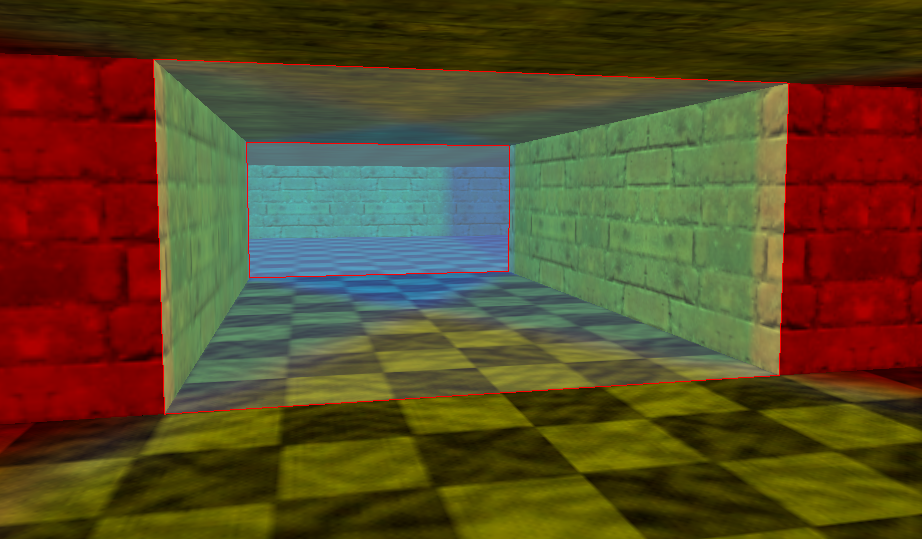
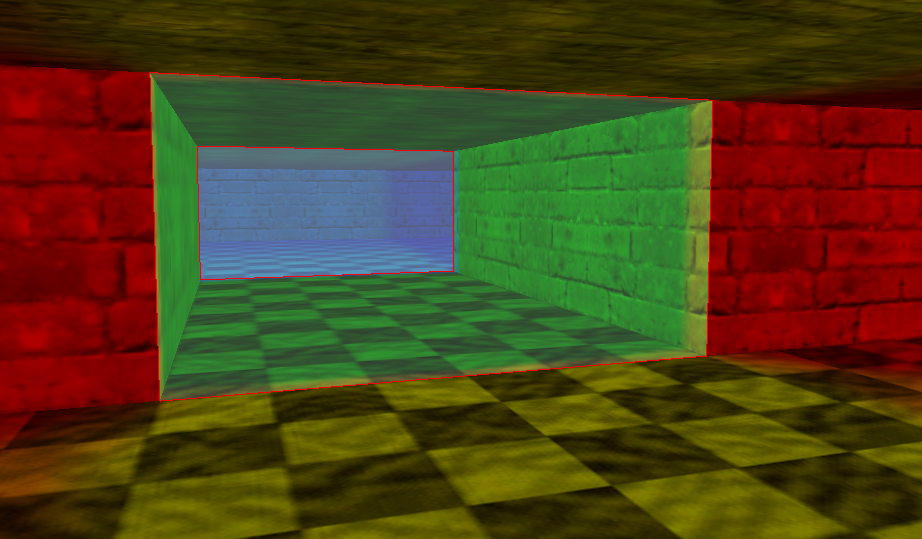
Continue working on the BSP example.

diff --git a/onionbsparticle.tex b/onionbsparticle.tex
@@ -139,10 +139,72 @@ The organisation of this article is as follows: in \S\ref{sec:bsps}, I briefly r
 \label{sec:bsps}
 
 %---
-\stufigex{width=.9\linewidth}{convexsubspaces.png}{Binary space partitioning divides a world, such as the \emph{simple} level from \emph{hesperus} shown here, into convex subspaces, represented by the leaves of the BSP tree. The translucent polygons in the figure represent \emph{portals} (doorways) between the leaves that highlight the boundaries between those convex subspaces.}{fig:convexsubspaces}{!t}
+\begin{stusubfig}{!t}
+	\subfigure[]
+	{
+	\begin{picture}(200,50)
+		\thicklines
+		%\dashline{4}(0,35)(35,35)
+		%\dashline{4}(0,165)(35,165)
+		%\dashline{4}(215,165)(250,165)
+		%\dashline{4}(215,25)(215,0)
+		%\dashline{4}(35,75)(75,75)
+		%\dashline{4}(175,75)(215,75)
+		%\dashline{4}(35,125)(75,125)
+		%\dashline{4}(175,125)(215,125)
+		%\put(122.5,180){a}
+		%\put(230,97.5){b}
+		%\put(122.5,15){c}
+		%\put(15,97.5){d}
+		%\put(122.5,140){e}
+		%\put(190,97.5){f}
+		%\put(122.5,57.5){g}
+		%\put(57.5,97.5){h}
+		%\put(122.5,97.5){i}
+		\dashline{4}(0,150)(200,150)
+		\dashline{4}(0,200)(200,200)
+		\dashline{4}(0,100)(200,100)
+		\dashline{4}(150,100)(150,0)
+		\dashline{4}(50,50)(0,50)
+
+		\color{red}
+		\drawline(75,100)(50,100)(50,50)(150,50)(150,100)(125,100)
+		\put(100,50){\vector(0,1){10}}			\put(97.5,37.5){6}
+		\put(50,75){\vector(1,0){10}}				\put(40,72.5){7}
+		\put(150,75){\vector(-1,0){10}}			\put(155,72.5){5}
+		\put(62.5,100){\vector(0,-1){10}}		\put(60,105){8}
+		\put(137.5,100){\vector(0,-1){10}}	\put(135,105){4}
+		\color{green}
+		\drawline(75,100)(75,150)
+		\drawline(125,100)(125,150)
+		\put(75,125){\vector(1,0){10}}			\put(65,121){9}
+		\put(125,125){\vector(-1,0){10}}		\put(130,121){3}
+		\color{blue}
+		\drawline(75,150)(50,150)(50,200)(150,200)(150,150)(125,150)
+		\put(62.5,150){\vector(0,1){10}}		\put(57.5,137.5){10}
+		\put(137.5,150){\vector(0,1){10}}		\put(135,137.5){2}
+		\put(50,175){\vector(1,0){10}}			\put(35,172.5){11}
+		\put(150,175){\vector(-1,0){10}}		\put(155,172.5){1}
+		\put(100,200){\vector(0,-1){10}}		\put(97.5,205){0}
+		\color{black}
+	\end{picture}
+	}
+	%
+	\hspace{8mm}%
+	%
+	\subfigure[]
+	{\includegraphics[width=.5\linewidth]{bsp-example-b.png}}%
+	%
+	\\\vspace{4mm}
+	%
+	\subfigure[]
+	{\includegraphics[width=.5\linewidth]{bsp-example-c.png}}%
+\caption{A BSP example for a simple world with two rooms, connected by a corridor: (a) shows a top-down view of the world, where the arrows represent the facings of the world polygons and the dashed lines represent split planes in the BSP tree; (b) shows a possible BSP tree that might be constructed for such a world; (c) shows what the world looks like in \emph{hesperus}, with portals (doorways) rendered as translucent polygons to illustrate the boundaries between the empty leaves of the BSP.}
+\label{fig:bsp-example}
+\end{stusubfig}
 %---
 
-In its most general form, binary space partitioning is a technique for representing n-dimensional space as a binary tree (known as a BSP tree) by recursively dividing it into two using \emph{hyperplanes} (the n-dimensional generalisation of planes). For a 2D example, see Figure~\ref{?}. Each node of a BSP tree represents a convex subspace of the world being partitioned; moreover, the leaves of the tree represent a \emph{partition} of the entire space, i.e.~they are mutually disjoint and their union is equal to the space (see Figure~\ref{fig:convexsubspaces}). Each branch node has an associated split plane (a line with facing in 2D) that divides the subspace represented by the node in two. Each leaf node contains the polygons (line segments in 2D) that fall within the subspace it represents.
+In its most general form, binary space partitioning is a technique for representing n-dimensional space as a binary tree (known as a BSP tree) by recursively dividing it into two using \emph{hyperplanes} (the n-dimensional generalisation of planes). For an example, see Figure~\ref{fig:bsp-example}. Each node of a BSP tree represents a convex subspace of the world being partitioned; moreover, the leaves of the tree represent a \emph{partition} of the entire space, i.e.~they are mutually disjoint and their union is equal to the space. Each branch node has an associated split plane (a line with facing in 2D) that divides the subspace represented by the node in two. Each leaf node contains the polygons (line segments in 2D) that fall within the subspace it represents.
 
 Binary space partitioning was originally introduced by Fuchs et.\ al \cite{fuchs80} in 1980. It saw widespread use in first-person games of the \emph{Quake} era (e.g.~see \cite{abrash97}) as a way of representing 3D polygonal game worlds, most notably because it provided a way of rendering a world's polygons in either back-to-front or front-to-back order \cite{fuchs80,gordon91} without the need for a z-buffer on the graphics card (z-buffers once used to be quite costly). As graphics cards have matured, commercial games have moved away from binary space partitioning as a rendering approach, because traversing a BSP tree is relatively slow in comparison to simply throwing large numbers of triangles at the graphics card and letting the z-buffer handle the rendering order, but BSP trees remain interesting as a basis for collision detection and constructive solid geometry techniques \cite{ericson05,lysenko08}.
 
